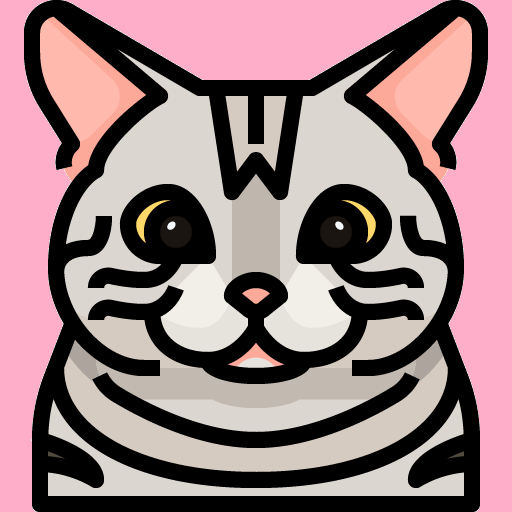
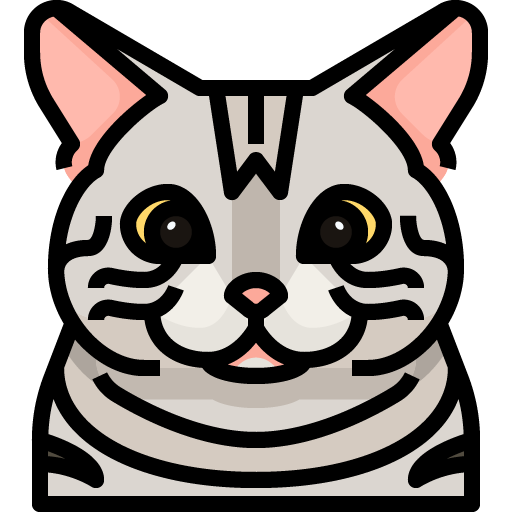
Changed images to transparent background

Changed region(s): [[0.8438, 0.0, 1.0, 1.0], [0.0, 0.0, 0.1562, 1.0], [0.125, 0.0, 0.875, 0.1562]]

diff --git a/index.html b/index.html
@@ -10,6 +10,7 @@
     <link rel="preconnect" href="https://fonts.gstatic.com" crossorigin>
     <link href="https://fonts.googleapis.com/css2?family=Bebas+Neue&display=swap" rel="stylesheet">
     <link rel="stylesheet" href="./index.css"> 
+    <link rel="stylesheet" href="index.js">
 </head>
 <body>
     <div class="container">

diff --git a/index.css b/index.css
@@ -43,4 +43,6 @@
     transition: 0.3s all ease;
     padding-top: 10px;
     margin: 5px;
+   
 }
+

diff --git a/index.js b/index.js
@@ -1,0 +1,1 @@
+console.log("Hello world")
